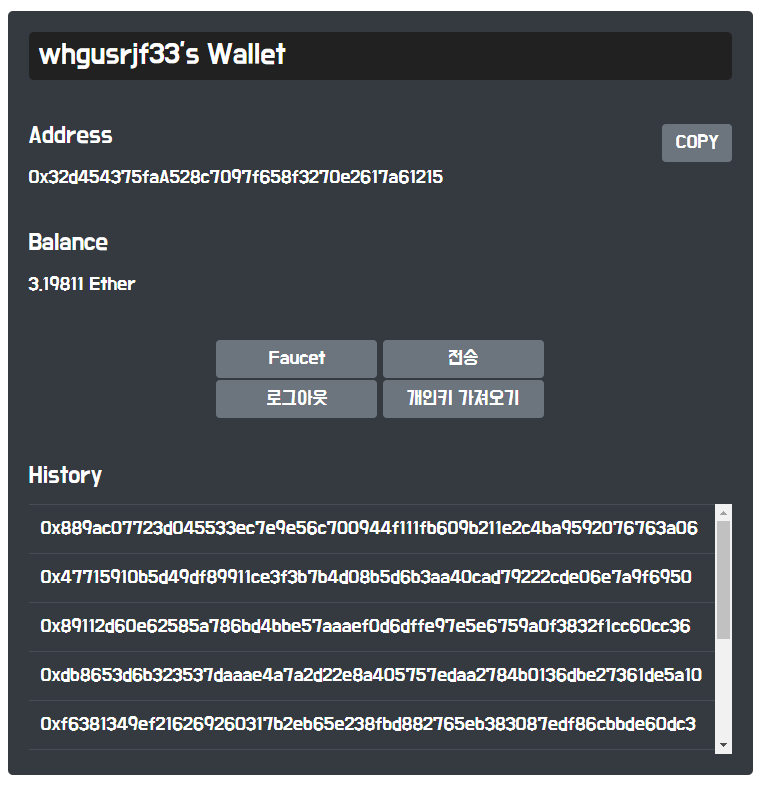
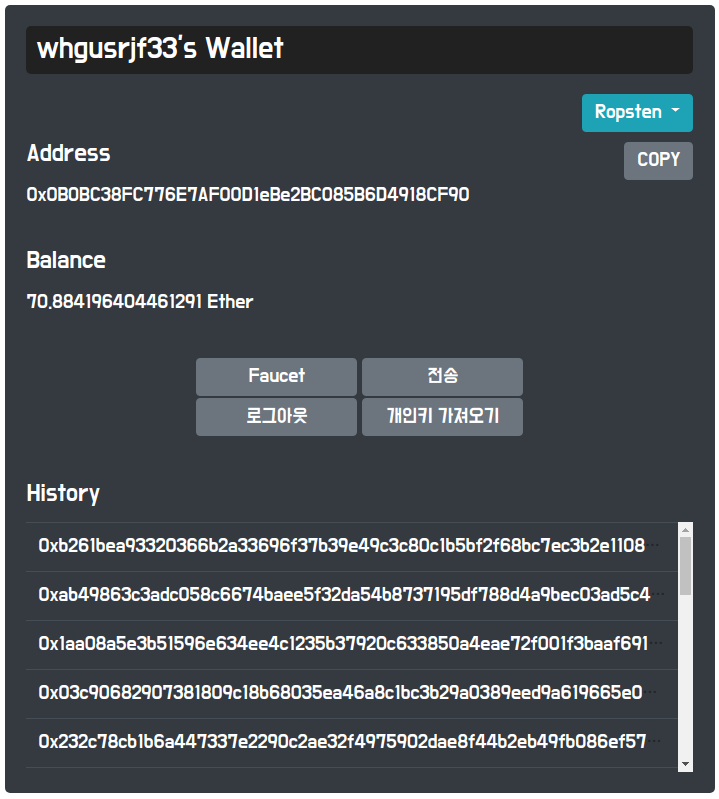
wallet & scan image change

Changed region(s): [[0.0, 0.0, 1.0, 1.0], [0.2754, 0.4275, 0.7344, 0.5496]]

diff --git a/docs/index.html b/docs/index.html
@@ -39,7 +39,7 @@
             <div class="col col-md col-lg col-xl" id="image-text">
                 <img src="public/images/Developer.jpg" style="width: 100%; height: 100%;" alt="Developer"
                     ondragstart="return false">
-                <p class="text" onselectstart="return false">Developer 조현걸의 포트폴리오 입니다.</p>
+                <p class="text" onselectstart="return false" style="font-size:38px;">Developer 조현걸의<br> 포트폴리오 입니다.</p>
             </div>
         </div>
     </div>
@@ -67,10 +67,10 @@
                         <br>
                         <strong>계기</strong>
                         <p class="gulim" align="left" style="margin:0% 5%; border-radius:5px;">
-                            중학생 때 피시방에 가면 있는 런처 프로그램을 보고 '집에서도 이렇게 만들어서
+                            &nbsp;중학생 때 피시방에 가면 있는 런처 프로그램을 보고 '집에서도 이렇게 만들어서
                             사용하면 편할 것 같다'라는 생각으로 어떻게 만드는지에에 대해 공부 하다 보니
                             자연스럽게 개발에 관해 관심이 생겨서 공부를 시작하게 되었습니다.<br>
-                            개발에 대한 공부를 하다가 혼자서 공부하기에는 한계가 있다는 것을 느꼈고,
+                            &nbsp;개발에 대한 공부를 하다가 혼자서 공부하기에는 한계가 있다는 것을 느꼈고,
                             과학기술정보통신부에서 주최하는 '블록체인 시스템 엔지니어 양성 과정'을
                             듣게 되면서 블록체인에 대한 이해도가 생겼고, 앞으로 개발 공부를 어떻게 진행해
                             나가야 할지에 대한 방향을 잡을 수 있게 되었습니다.
@@ -96,7 +96,8 @@
                         <img src="public/images/jQuery.gif" class="iconimg" alt="jQuery" ondragstart="return false">
                         <img src="public/images/web3js.PNG" class="iconimg" alt="web3js" ondragstart="return false">
                         <img src="public/images/MySQL.png" class="iconimg" alt="MySql" ondragstart="return false">
-                        <img src="public/images/gcp.png" class="iconimg" alt="Google Cloud Platform" ondragstart="return false">
+                        <img src="public/images/gcp.png" class="iconimg" alt="Google Cloud Platform"
+                            ondragstart="return false">
                     </td>
                 </tr>
                 <tr id="Project1" style="background-color: #E4EAF2;">
@@ -115,10 +116,23 @@
                                 <strong>개발기간</strong><br><br>
                                 2019.09.02 ~ 2019.11.20<br><br>
 
+                                <strong>사용 기술</strong><br>
+                                <div class="projectimage">
+                                <img src="public/images/js.png" class="iconimg" alt="js" ondragstart="return false">
+                                <img src="public/images/nodejs.png" class="iconimg" alt="nodejs"
+                                    ondragstart="return false">
+                                <img src="public/images/jQuery.gif" class="iconimg" alt="jQuery"
+                                    ondragstart="return false">
+                                <img src="public/images/web3js.PNG" class="iconimg" alt="web3js"
+                                    ondragstart="return false">
+                                <img src="public/images/MySQL.png" class="iconimg" alt="MySql"
+                                    ondragstart="return false"><br><br>
+                                </div>
+
                                 <strong>맡은역할</strong><br><br>
-                                <b>- 기능적인 측면 구현</b><br><br>                        
-                                    <li>계정생성</li><br>
-                                    <!-- 계정생성시 DB에 ID, PASSWORD, Address, PrivateKey를 저장하는데, Web3.js의 <b>accounts.create을 사용하여
+                                <b>- 기능적인 측면 구현</b><br><br>
+                                <li>계정생성</li><br>
+                                <!-- 계정생성시 DB에 ID, PASSWORD, Address, PrivateKey를 저장하는데, Web3.js의 <b>accounts.create을 사용하여
                                                                     Address, PrivateKey를 발급</b> 받고 정보들을 DB에 저장하기전에 <b>PASSWORD는 bcrypt의 AES를 사용하여 암호화,
                                                                         PrivateKey는 CryptoJS를 사용하여 암호화</b> 해서 저장하는 기능을 구현하였습니다.<br><br>
                                                                         - PASSWORD 암호화에 bcrypt를 사용한 이유 : 사용자의 PASSWORD는 관리자가 알면 안되는 정보라는 점을 고려하여
@@ -126,36 +140,41 @@
                                                                         - PrivateKey 암호화에 CryptoJS를 사용한 이유 : PrivateKey를 사용자에게 알려주기 위해서는 복호화가 가능한 
                                                                         암호 방식을 사용해야해서 사용하게되었습니다. 암호화 할 때 사용자가 입력한 PASSWORD secretKey가 되어서
                                                                         관리자가 마음대로 사용자의 개인키를 악용할 수 없도록 해놓았습니다.<br><br> -->
-                                    <li>로그인</li><br>
-                                    <!-- DB에서 사용자가 입력한 ID를 바탕으로 정보를 조회한 뒤에 그에 맞는 암호화 되어 저장된 PASSWORD와
+                                <li>로그인</li><br>
+                                <!-- DB에서 사용자가 입력한 ID를 바탕으로 정보를 조회한 뒤에 그에 맞는 암호화 되어 저장된 PASSWORD와
                                                                             사용자가 입력한 PASSWORD를 bcrypt로 비교한 뒤에 리턴값이 참일 경우에 메인페이지로 이동되도록 구현 하였습니다.<br><br> -->
-                                    <li>잔액 조회</li><br>
-                                    <!-- web3.js의 getBalance를 사용하여 잔액을 조회하는 기능을 구현하였습니다.<br><br> -->
-                                    <li>이더 전송</li><br>
-                                    <!-- web3.js 공식문서를 보면서 이더전송하는 부분을 구현해보다 안돼서 검색해보다가 메인넷과 테스트넷은 web3의
+                                <li>잔액 조회</li><br>
+                                <!-- web3.js의 getBalance를 사용하여 잔액을 조회하는 기능을 구현하였습니다.<br><br> -->
+                                <li>이더 전송</li><br>
+                                <!-- web3.js 공식문서를 보면서 이더전송하는 부분을 구현해보다 안돼서 검색해보다가 메인넷과 테스트넷은 web3의
                                                                                 Personal 옵션이 막혀있다는 사실을 알게되었고, 그래서 <b>PrivateKey로 서명하여 이더를 전송하는
                                                                                     sendSignedTransaction을 사용하여 이더를 전송</b>하는 기능을 구현하였습니다.<br><br> -->
-                                    <li>개인키 가져오기</li><br><br>
-                                    <!-- 개인키를 다른 지갑에서 사용해야할 경우도 생각하여 사용자가 개인키 가져오기를 하게되면 비밀번호를 입력했을 때
+                                <li>개인키 가져오기</li><br>
+                                <li>서버 변경 기능(테스트넷, 메인넷)구현</li><br>
+                                <!-- 개인키를 다른 지갑에서 사용해야할 경우도 생각하여 사용자가 개인키 가져오기를 하게되면 비밀번호를 입력했을 때
                                                                                         성공하게 되면 Crypto로 암호화 되어있는 개인키를 복호화(복호화하기 위한 키는 사용자가 입력하는 PASSWORD)하여 보여주도록
                                                                                         구현하였습니다.<br><br> -->
                                 <b>- 템플릿으로 작성되어있던 웹 페이지를 EJS로 변환 및 서버와 연동</b><br><br>
 
                                 <strong>한계점</strong><br><br>
-                                <li>개인키를 암호화해서 DB에 저장하는데 이때 복호화키가 사용자가 입력한 password이기 때문에 사용자가 password를 분실시
+                                <li>개인키를 암호화해서 DB에 저장하는데 이때 복호화키가 사용자가 입력한 Password이기 때문에 사용자가 Password를 분실시
                                     개인키 복호화가 불가능합니다.(개인키 분산저장에 대한 이해도 부족)</li><br>
-                                <li>클라이언트측에서 서버측으로 전송하는 데이터가 평문으로 전송 되기 때문에 스니핑에 대한 위협을 받을 수 있습니다.</li><br><br>
+                                <li>클라이언트측에서 서버측으로 전송하는 데이터가 평문으로 전송 되기 때문에 스니핑에 대한 위협을 받을 수 있습니다.</li><br>
+                                <li>History 부분에 나타나는 txHash값은 오로지 이 지갑에서 이더를 전송했을 때만 저장되고 보여지기 때문에 
+                                    외부에서 사용자의 Address로 전송한 txHash값은 볼 수 없습니다.<br>(Output Data 조회 가능, Input Data 조회 불가)</li><br>
+                                <br>
 
                                 <strong>느낀점</strong><br><br>
-                                처음으로 프로젝트를 진행하면서 어떻게 문제를 해결해야할지 막막했던적이 많았는데 처음에는 문제가 생기면
+                                &nbsp;처음으로 프로젝트를 진행하면서 어떻게 문제를 해결해야할지 막막했던적이 많았는데 처음에는 문제가 생기면
                                 해결하는데 많은 시간이 걸렸는데 시간이 갈수록 문제가 생겼을 때 공식문서를 보는법, 구글에 검색하는 방식 등 문제 해결에 대한
                                 숙련도가 생기면서 문제가 발생했을 때 어떻게 하면 해결이 될지 아는데 점점 더 적은 시간이 들게 되었습니다.<br>
-                                문제가 생길 때마다 정말 힘들었지만 팀원들과 문제에 대한 의견을 주고받으며 해결책을 찾기도 하였습니다.
-                                그리고 문제를 하나하나 해결하거나 원하는 기능이 구현되었을 때 그 성취감은 말로 이루 표현할 수 없었던 것 같습니다.
+                                &nbsp;문제가 생길 때마다 정말 힘들었지만 혼자서만 해결하려고 하는 것이 아닌 팀원들과 문제에 대한 의견을 주고받으며 해결책을 찾기도 하였습니다.<br>
+                                &nbsp;문제를 하나하나 해결하거나 원하는 기능이 구현되었을 때 그 성취감은 말로 이루 표현할 수 없었던 것 같습니다.
                                 앞으로도 전 그 성취감을 위해 개발 공부를 계속할 것입니다.
                                 <br><br>
                                 <a href="https://github.com/Hyun-Geol/ethereumWallet" target="_blank">
-                                    <img src="public/images/github.png" class="iconimg" style="width: 57px; height: 57px;" alt="github"
+                                    <img src="public/images/github.png" class="iconimg"
+                                        style="width: 57px; height: 57px;" alt="github"
                                         title="이미지를 클릭하시면 github페이지로 이동됩니다.">
                                 </a><br>
                             </ul>
@@ -177,18 +196,29 @@
                                     class="btn btn-primary disabled">TEST</button><br><br>
                                 <strong>개발기간</strong><br><br>
                                 2019.09.19 ~ 2019.11.20<br><br>
+                                <strong>사용 기술</strong><br>
+                                <div class="projectimage">
+                                <img src="public/images/js.png" class="iconimg" alt="js" ondragstart="return false">
+                                <img src="public/images/nodejs.png" class="iconimg" alt="nodejs"
+                                    ondragstart="return false">
+                                <img src="public/images/jQuery.gif" class="iconimg" alt="jQuery"
+                                    ondragstart="return false">
+                                <img src="public/images/web3js.PNG" class="iconimg" alt="web3js"
+                                    ondragstart="return false">
+                                </div>
                                 <strong>맡은역할</strong><br><br>
                                 <li>블록 번호, 트랜잭션 해시, 어드레스를 검색 기능 구현</li><br>
                                 <li>검색에 대한 에러처리</li><br>
-                                <li>EJS와 서버를 연동(express)</li><br><br>
+                                <li>EJS와 서버를 연동(express)</li><br>
+                                <li>서버 변경 기능(테스트넷, 메인넷)구현</li><br><br>
                                 <!-- 제가 맡은 역할은 블록 번호, 트랜잭션 해시, 어드레스를 검색 했을 때 검색한 결과에 맞는 정보가 나오도록
                                 기능을 만드는 작업, 만약에 존재하지 않는 값을 입력할 경우 그 값을 검사하는 web3.js의 함수를 사용하여
                                 검사한 후 없는 것을 검색했을 때 에러처리와 ejs 웹과 서버가 연결되도록 하는 작업을 하였습니다.<br><br> -->
                                 <strong>한계점</strong><br><br>
-                                <li>Web3.js 라이브러리에서 바로 정보를 조회하여 가져오기 때문에 속도가 느리고, 얻을 수 없는 정보가 있습니다.</li><br>
-                                <li>서버 변경하는 기능을 구현하지 못하였습니다.</li><br><br>
+                                <li>Web3.js 라이브러리에서 바로 정보를 조회하여 가져오기 때문에 속도가 느리고, 얻을 수 없는 정보가 있습니다.</li><br><br>
                                 <a href="https://github.com/pilsa0327/etherscan" target="_blank">
-                                    <img src="public/images/github.png" class="iconimg" style="width: 57px; height: 57px;" alt="github"
+                                    <img src="public/images/github.png" class="iconimg"
+                                        style="width: 57px; height: 57px;" alt="github"
                                         title="이미지를 클릭하시면 github페이지로 이동됩니다.">
                                 </a><br>
                             </ul>

diff --git a/docs/public/css/style.css b/docs/public/css/style.css
@@ -27,6 +27,10 @@ li {
 .BM {
     font-family: 'BMDOHYEON';
 }
+.projectimage img {
+    width: 57px;
+    height: 57px;
+}
 
 .iconimg{
     width: 72px;
